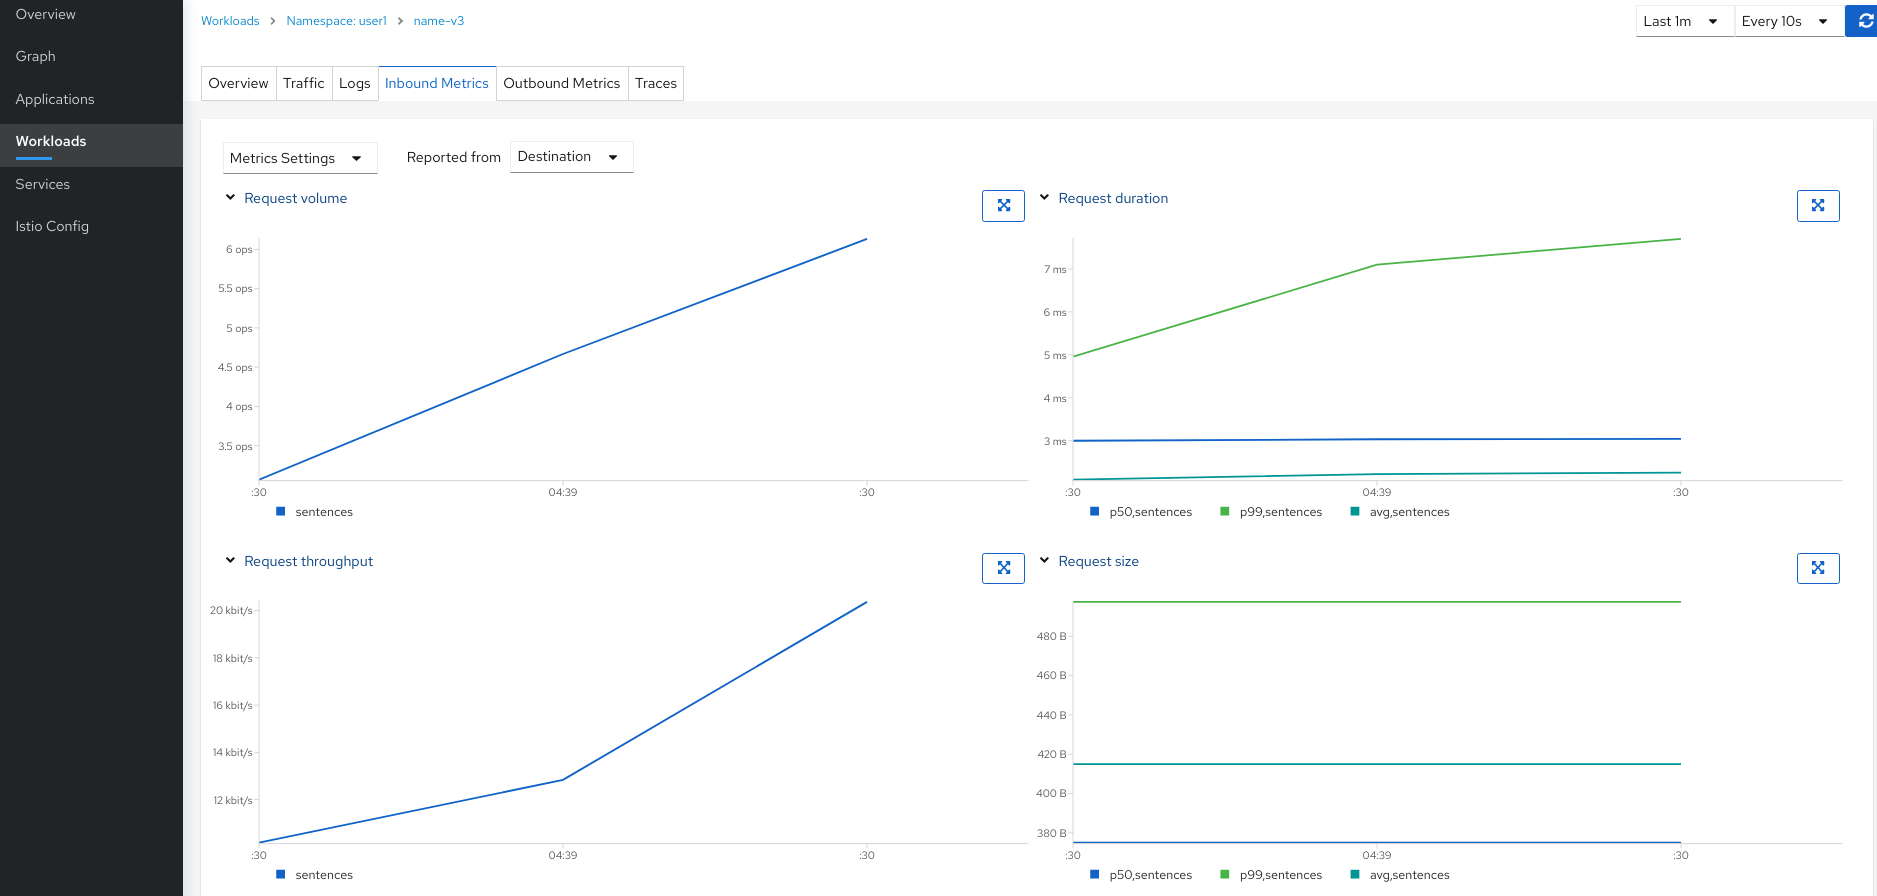
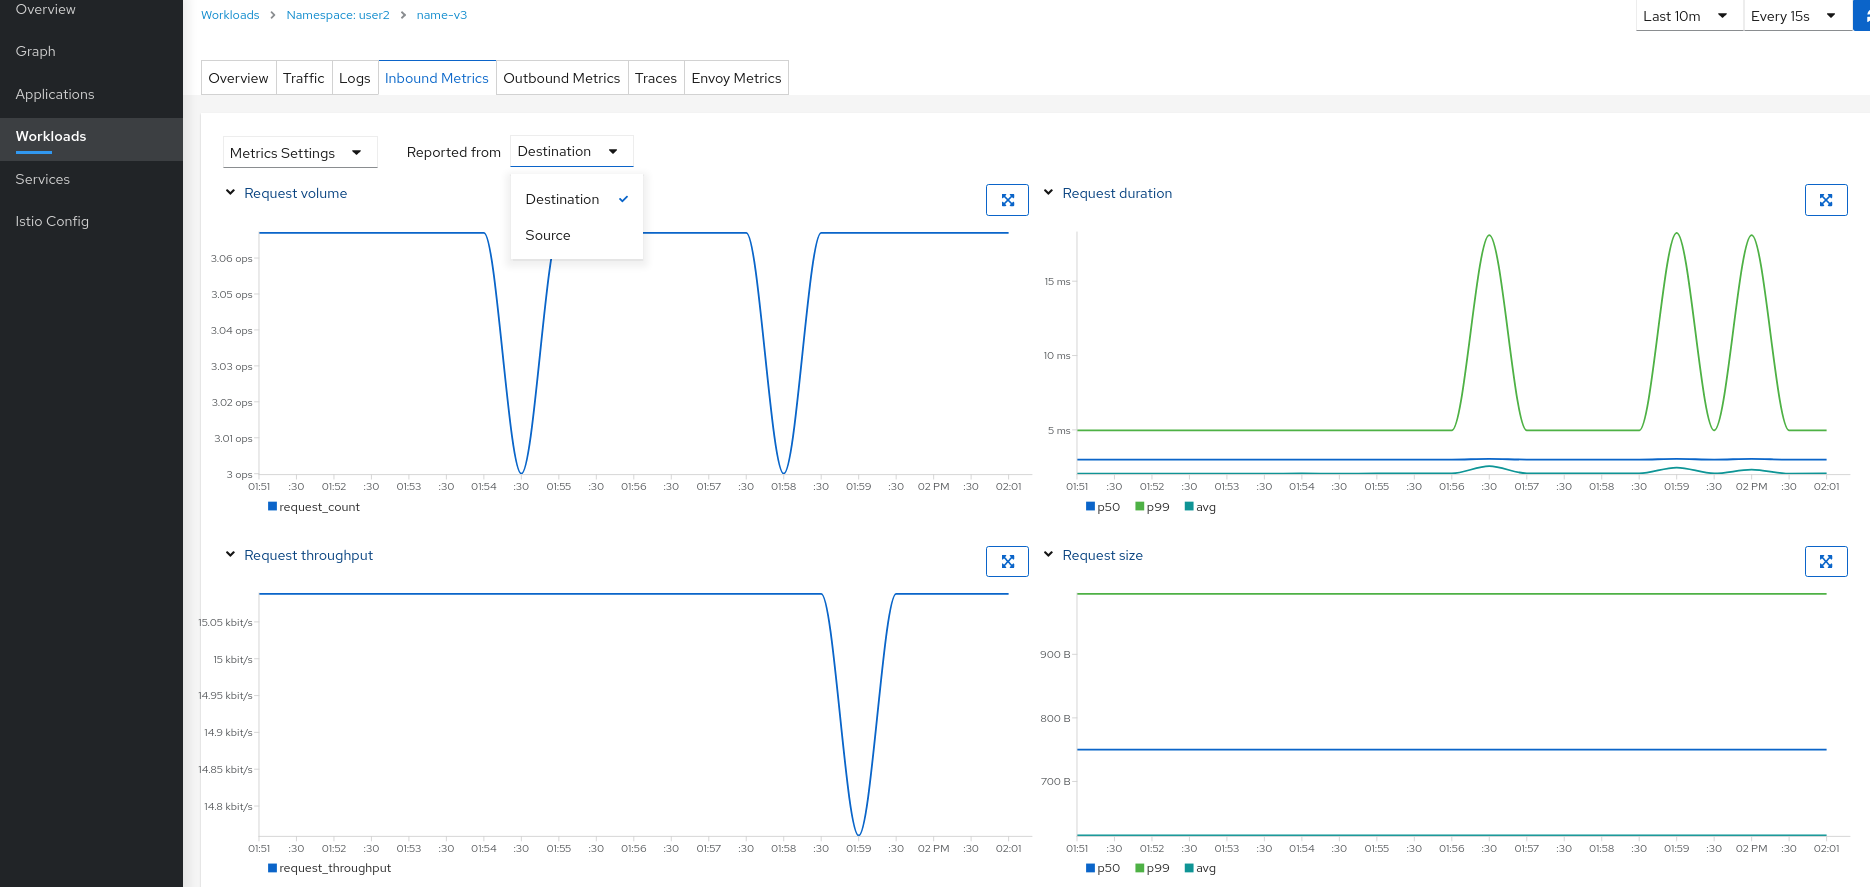
Mardkown and image updates for 002 -> shadow deploy.

diff --git a/002-deployment-patterns.md b/002-deployment-patterns.md
@@ -789,17 +789,21 @@ WARNING:root:Operation 'name' took 0.238ms
 
 - **Observe the traffic in Kiali**
 
-If you look at the **version app graph** you will **not** see the mirrored 
-traffic being shown. 
+Go to Graph menu item and select the **Versioned app graph** from the drop 
+down menu.
+
+If you look at the **version app graph** you **will** see the mirrored 
+traffic being shown. But you know that the client is **not** getting 
+responses from `v3` from the terminals output.
 
 ![Graph with mirror](images/kiali-mirror-graph.png)
 
-But it is possible to see that there is inbound traffic for the `name-v3` 
-workload. There is obviously no outbound traffic.
+Go to the menu item **Workloads** and select `name-v3` and the **inbound** 
+metrics tab. 
 
-![Workload with mirror](images/kiali-mirrored-workload-inbound.png)
-
-Metrics are also collected for the **destination** traffic.
+Metrics are also collected for the **destination** traffic of `v3`. If you 
+select **Source** from the **Reported from** drop down you will **not** 
+see any metrics as responses are discarded. 
 
 ![Workload mirror metrics](images/kiali-mirrored-inbound-metrics.png)
 
